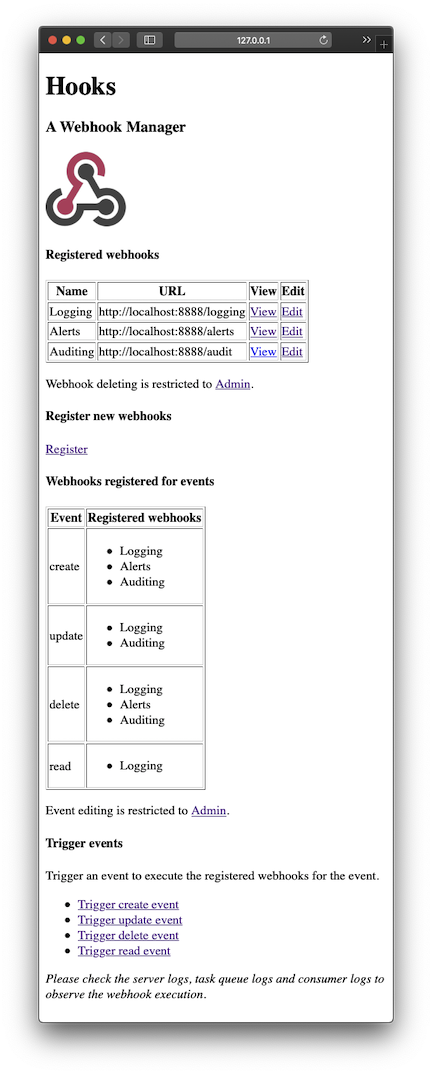
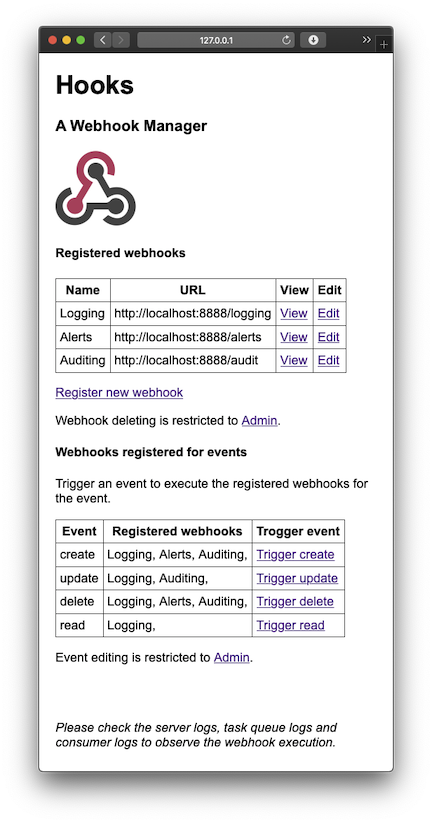
Updating docs

Changed region(s): [[0.0903, 0.0, 0.9329, 0.9721]]

diff --git a/README.md b/README.md
@@ -1,120 +1,44 @@
-# Django Hook
+# Hooks
+
+![Main web page](docs/screenshots/webhook-app.png)
 
 A simple [webhooks](https://en.wikipedia.org/wiki/Webhook) manager with event  triggering.
 
 Built using [Django](https://www.djangoproject.com) web framework and [Huey](https://huey.readthedocs.io/en/latest/)
 task queue.
 
-> See current [project status](docs/status.md) :clipboard: 
->
-- [Quick Start](#quick-start)
-- [High Level Requirements](#high-level-requirements)
-- [Functional Design](#functional-design)
-- [Application Design](#server-application-design)
-- [Data layer](#server-application-data-layer)
-- [Deployment](#server-application-deployment)
-- [Project Status](docs/status.md)
-- [TODO](#todo)
-- [Developer Notes](docs/developer-notes.md)
-
 ## Quick Start
 
-> See [latest status](docs/status.md) for updates
+- [Deploy using Docker](docs/docker.md)
+- [Run using Python venv](docs/python-venv.md)
 
-Setup Python
 
-```
-$ python --version
-Python 3.7.7
-```
-
-```
-$ python -m venv venv
-$ source venv/bin/activate
-```
-
-Install modules
-
-```
-$ pip install -r requirements.txt
-```
-
-Initialize database
-
-```
-$ cd server
-$ python manage.py migrate
-```
-
-Create admin user
-
-```
-$ python manage.py createsuperuser
-```
-
-Run task queue workers
-
-```
-$ python manage.py run_huey
-```
-
-Start Django webhook server on 8000
-
-```
-$ python manage.py runserver
-Starting development server at http://127.0.0.1:8000/
-```
-
-Open [http://127.0.0.1:8000](http://127.0.0.1:8000) on browser
-
-![Main web page](docs/screenshots/webhook-app.png)
-
-Add events using app admin [http://127.0.0.1:8000/admin](http://127.0.0.1:8000/admin) interface so we can test webhhoks.
-
-Register webhooks from main app page [http://127.0.0.1:8000](http://127.0.0.1:8000) to test, using URLs pointing to test
-server and link to events.
-
-Example URL: `http://127.0.0.1:8888/test/one`
-
-Start a test webhook consumer on port 8888 and trigger events from main app page
-[http://127.0.0.1:8000](http://127.0.0.1:8000)
-
-```
-$ cd consumer
-$ python consumer.py
-Starting webhook consumer on http://127.0.0.1:8888/
-```
+> Additional [developer setup notes](docs/developer-notes.md)
 
 ## High level requirements
 
 A Django webhooks application that:
  - Re-queues the webhooks if the server doesn't respond with a 2xx code.
  - Exposes a clean interface for registering and using the webhooks.
- - Uses uWSGI caching to cache QuerySets
 
 ## Functional design
 
 ### Server application
 
-This demo server application triggers a set of pre-defined events. These events can be triggered on demand and/or
-randomly triggered periodically in the main application loop. The webhhok POST request execution will be submitted
-to a task queue which will do non-blocking execution with retries on failure.
+This Django server application triggers a set of events which executes registered webhooks for each event.
+The webhhok POST request execution will be submitted to a task queue which will do non-blocking execution with
+retries on failure.
 
-The demo application allows registering of one or more webhook url's with one or more of these pre-defined events.
+The application allows registering of one or more webhook url's with one or more of these events.
 
 > This is similar to the github woobhooks registration for github events/actions.
-
-> Initially use the Django provided admin interface to create events and for creating and registering webhhooks.
 
 ### Client application for testing
 
 This is a demo client application that can receive/consume a set of webhooks used for testing the server app.
 
-> Any of the public webhooks test sites like [webhook.site](https://webhook.site) can also be used for normal testing
-> without the re-queuing scenario.
-
-> Client app tests could be replaced/replicated using
->[unittest.mock](https://docs.python.org/3/library/unittest.mock.html)
+> Any of the public webhooks test sites like [webhook.site](https://webhook.site) can also be used but having a local
+>consumer allows us to test failure cases and retry easily.
 
 ## Server application design
 
@@ -151,20 +75,18 @@ implemented through ORM layer using data [models](https://docs.djangoproject.com
 
 ## Server application deployment
 
-> This is a stretch goal to integrate uWSGI and NGINX
-
-The server application will be configured to be deployed using
-[uWSGI](https://uwsgi-docs.readthedocs.io/en/latest/WSGIquickstart.html) and [NGINX](https://www.nginx.com)
-With uWSGI configured to enable caching.
-The application with the uWSGI and NGINX servers will be packaged as a Docker image with all dependencies for quick
-deployment.
+Dockerized as a simple [single image](docker.md)
 
 ## TODO
 
-- Dockerizing the deployment
-- Add a fixture for initializing db with few test events and webhooks
-- Code quality - unit tests, docstrings, pylint etc.
-- Update test consumer to test non 2xx response code easily
-- Add a CSS file for better formatting of the web interface pages
-- Add a REST API interface for webhoock registration (stretch goal)
-
+- Dev
+  - Code quality - unit tests, docstrings, type hints, pylint etc.
+  - Add a REST API interface for webhoock registration (stretch goal)
+  - Add a common base template for all page templates
+  - Add model and form constrains/validations
+- Deploy (Changes for production deployment)
+  - Docker compose with separate images and shared volume for database
+  - Switch out SQLite with PostgreSQL/MySQL
+  - Use Redis backend for Huey or switch to advanced task queue like Celery
+    - Celery can provide dead-letter delivery, back-off retries etc.
+  - Deploy with uWSGI and NGINX

diff --git a/docs/docker.md b/docs/docker.md
@@ -1,0 +1,73 @@
+# Deploy with Docker
+
+## Build 
+```shell script
+$ docker build -t hooks .
+
+$ docker images | grep hooks
+hooks                                  latest              1d1aefbd1bf1        11 hours ago        963MB
+
+```
+
+> NOTE: Default admin credentials are admin/admin in the Dockerfile
+
+## Deploy 
+
+```shell script
+$ docker run -d --name=hooks -p 8000:8000 hooks 
+
+$ docker ps  | grep hooks
+22aa8a5a45ca  hooks "/server/entrypoint.…"  8 minutes ago   Up 8 minutes   0.0.0.0:8000->8000/tcp   hooks
+```
+
+```shell script
+$ docker logs hooks  --follow
+...
+Huey task queue worker started with logs at /server/hey.log
+...
+Starting Hooks Django server at http://localhost:8090/ ...
+...
+[2020-04-09 08:51:56,695] INFO:huey:Worker-1:Added task 2bb6a2bf-cb1a-4d04-aa8a-1cf0c1581f55 to schedule, eta 2020-04-09 15:51:59.694755
+Added task 2bb6a2bf-cb1a-4d04-aa8a-1cf0c1581f55 to schedule, eta 2020-04-09 15:51:59.694755
+...
+Requesting POST http://localhost:8888/alerts {'event': 'create', 'time': '2020-04-09T08:51:48.381993'}
+...
+
+```
+
+Test consumer is provided in the image and can be run as follows 
+
+```shell script
+$ docker exec -ti hooks bash
+root@22aa8a5a45ca:/server# python /server/consumer.py
+Starting webhook consumer at http://127.0.0.1:8888/
+...
+Received POST /audit event=create&time=2020-04-09T08%3A51%3A48.381993, Responded with 200
+```
+
+## Test
+
+Open [http://127.0.0.1:8000](http://127.0.0.1:8000) on browser
+
+![Main web page](screenshots/webhook-app.png)
+
+> Register new webhooks from main app page [http://127.0.0.1:8000](http://127.0.0.1:8000) using URLs pointing to test
+consumer.
+>
+> Example URL: `http://127.0.0.1:8888/test/one`
+
+To test failure retry of webhooks run test consumer with a different non OK response code.
+
+```shell script
+$ docker exec -ti hooks bash
+root@22aa8a5a45ca:/server# python /server/consumer.py 501
+Starting webhook consumer at http://127.0.0.1:8888/
+...
+Received POST /alerts event=create&time=2020-04-09T08%3A51%3A48.381993, Responded with 501
+```
+
+## TODO
+
+- Split Django and Huey as separate images, and add an image for test consumer
+  - Use Docker compose to deploy all images together 
+  - Add a shared volume for same SQLite database for Django and Huey images

diff --git a/docs/python-venv.md b/docs/python-venv.md
@@ -1,0 +1,79 @@
+# Python env 
+
+Setup Python
+
+```
+$ python --version
+Python 3.7.7
+```
+
+```
+$ python -m venv venv
+$ source venv/bin/activate
+```
+
+Install modules
+
+```
+$ pip install -r requirements.txt
+```
+
+Initialize database
+
+```
+$ cd server
+$ python manage.py migrate
+```
+
+Create admin user
+
+```
+$ python manage.py createsuperuser
+```
+
+Load sample test data 
+
+```
+$ python manage.py loaddata sample-data
+```
+
+Run task queue workers
+
+```
+$ python manage.py run_huey
+```
+
+Start Django webhook server on 8000
+
+```
+$ python manage.py runserver
+Starting development server at http://127.0.0.1:8000/
+```
+
+Start test consumer on port 8888
+
+```
+$ cd consumer
+$ python consumer.py
+Starting webhook consumer on http://127.0.0.1:8888/
+```
+
+Open [http://127.0.0.1:8000](http://127.0.0.1:8000) on browser
+
+![Main web page](screenshots/webhook-app.png)
+
+> Register new webhooks from main app page [http://127.0.0.1:8000](http://127.0.0.1:8000) using URLs pointing to test
+consumer.
+>
+> Example URL: `http://127.0.0.1:8888/test/one`
+
+To test failure retry of webhooks run test consumer with a different non OK response code.
+
+```
+$ cd consumer
+$ python consumer.py 501
+Starting webhook consumer on http://127.0.0.1:8888/
+```
+
+
+> Additional [developer setup notes](docs/developer-notes.md)

diff --git a/docs/status.md b/docs/status.md
@@ -1,10 +1,22 @@
 # Status
 
+- [April 9 2020](#april-9-2020)
 - [April 5 2020](#april-5-2020)
 - [April 4 2020](#april-4-2020)
 - [April 3 2020](#april-3-2020)
 - [April 2 2020](#april-2-2020)
 - [April 1 2020](#april-1-2020)
+
+## April 9 2020
+
+- Dockerized with a simple [single image](docker.md)
+- Added a fixture json for seeding sample initial data to the database
+- Added a CSS style sheet and changed the main page layout
+- Updated test consumer to send custom response code for testing failure retry
+- Fixed form saving of webhook to event relation
+- Updated [python venv steps](python-venv.md) for developers
+
+![Main Page](screenshots/main-web-page.png)
 
 ## April 5 2020
 
